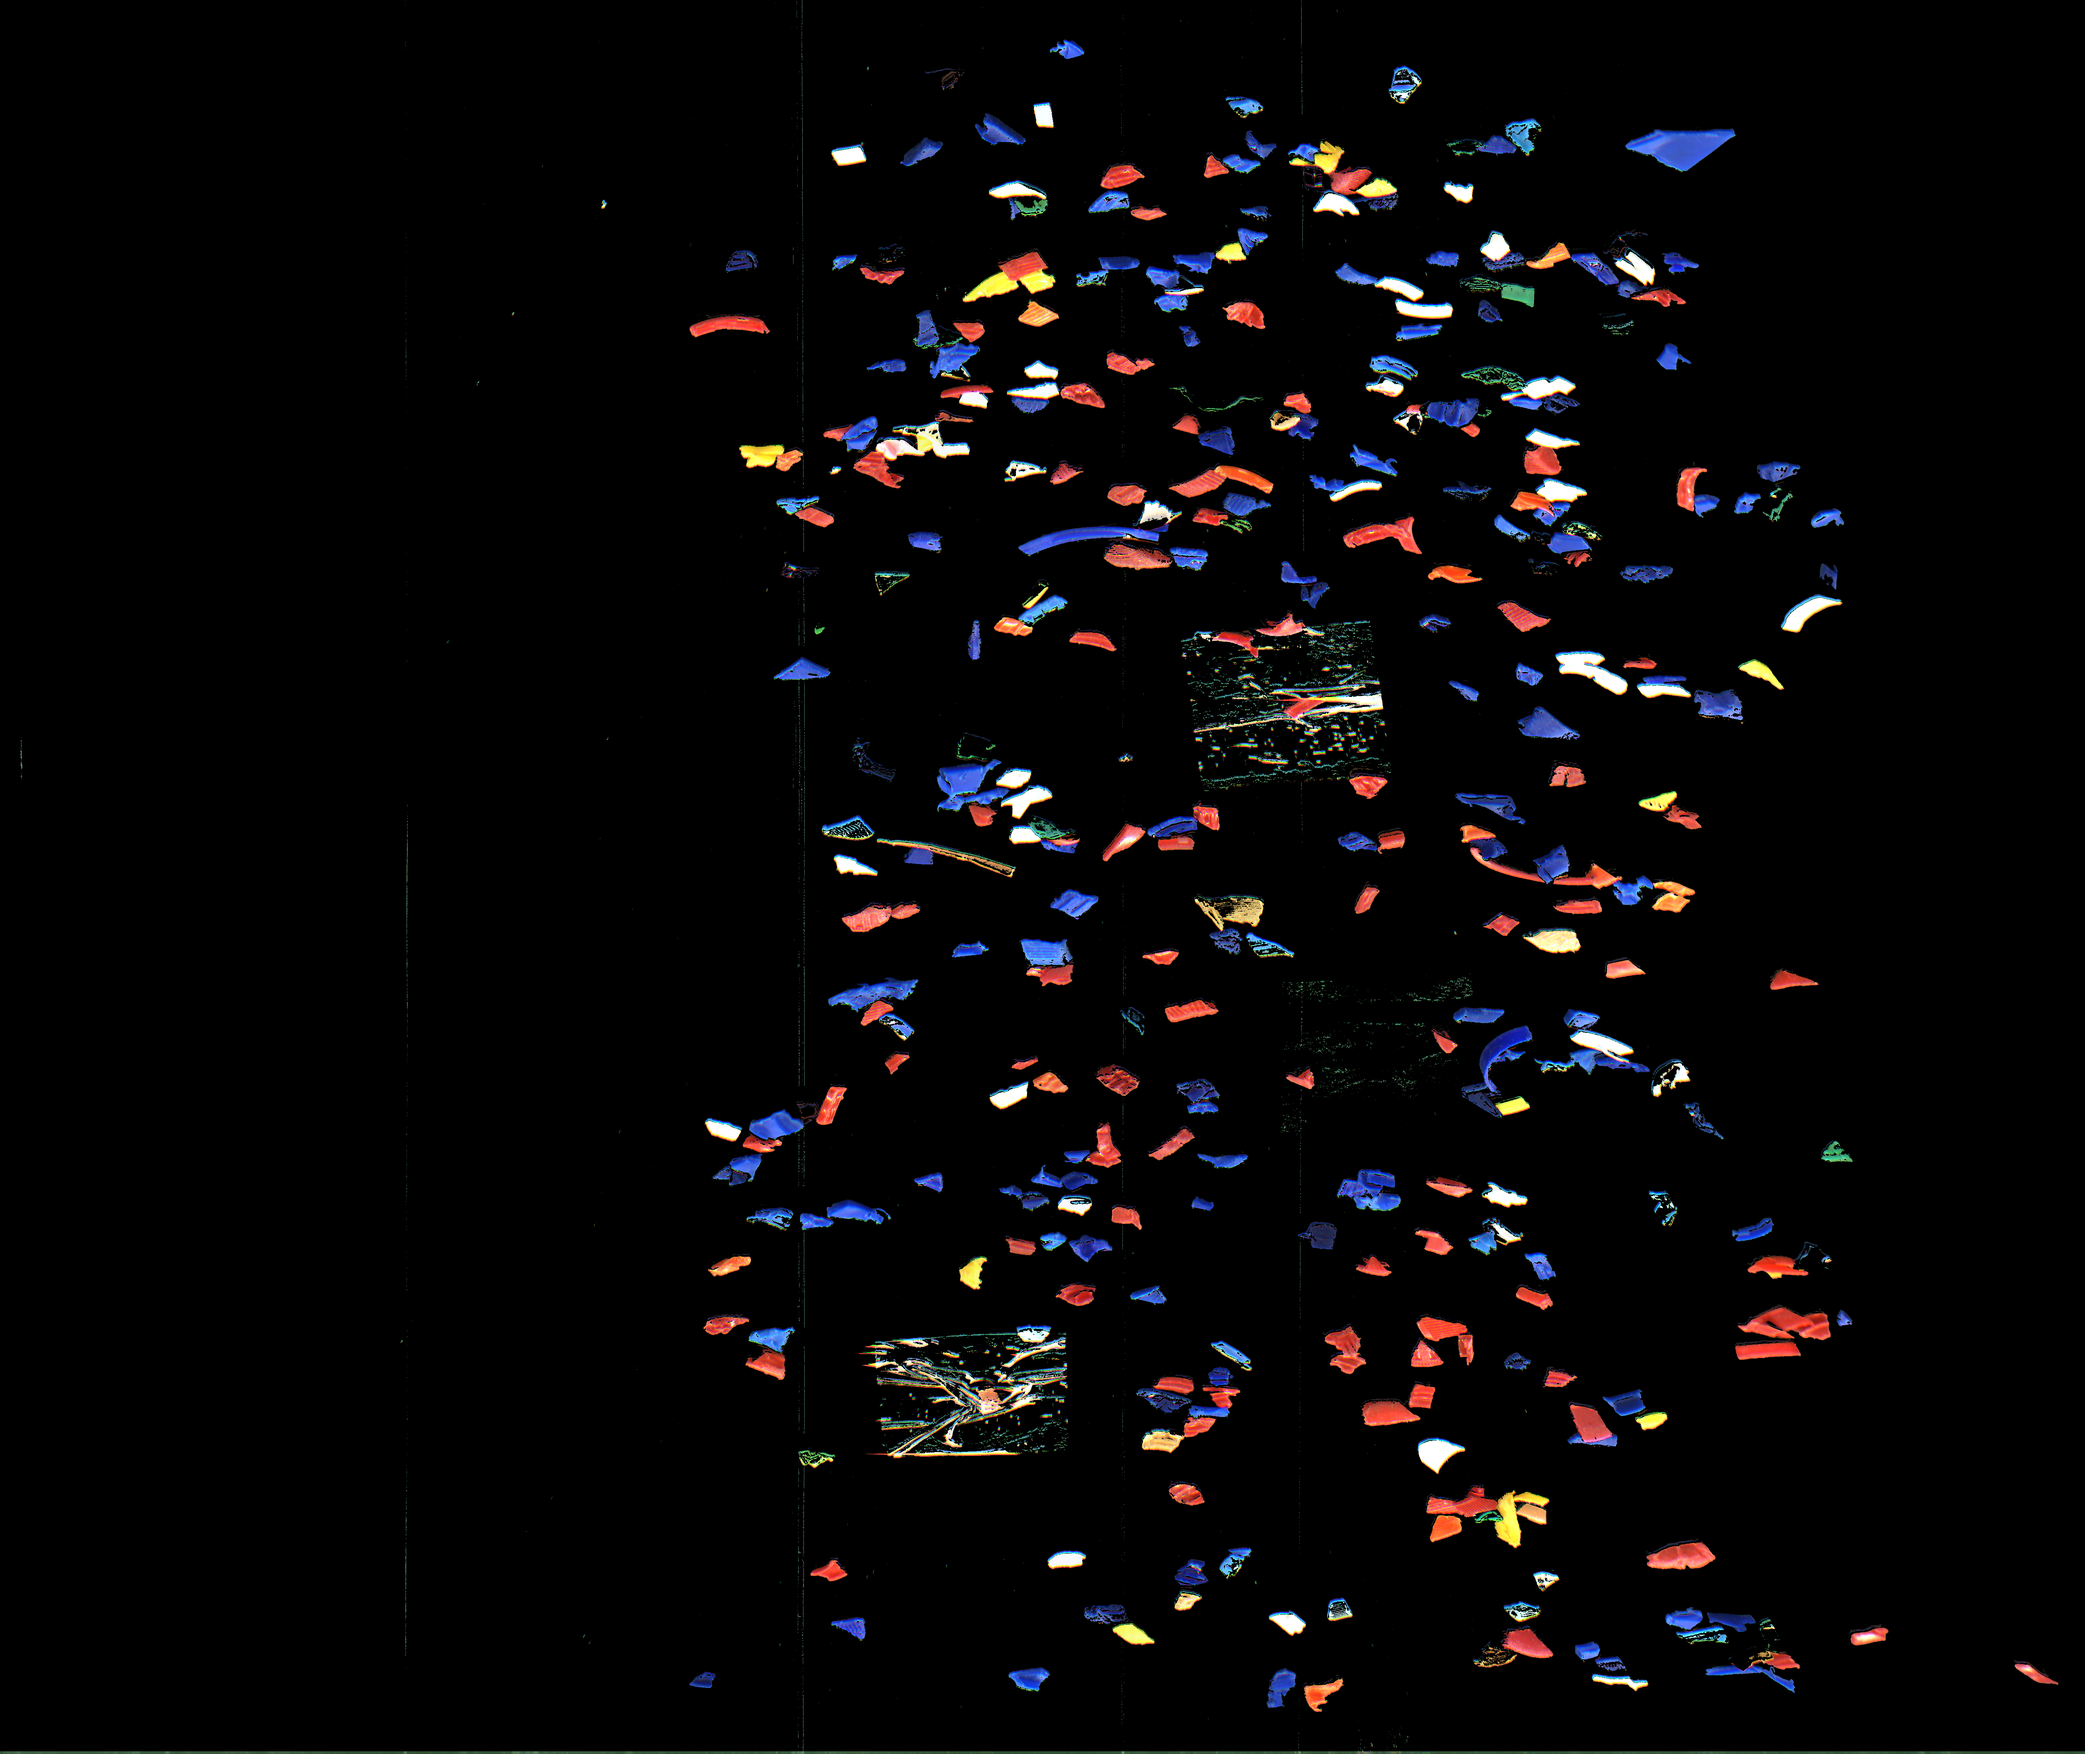
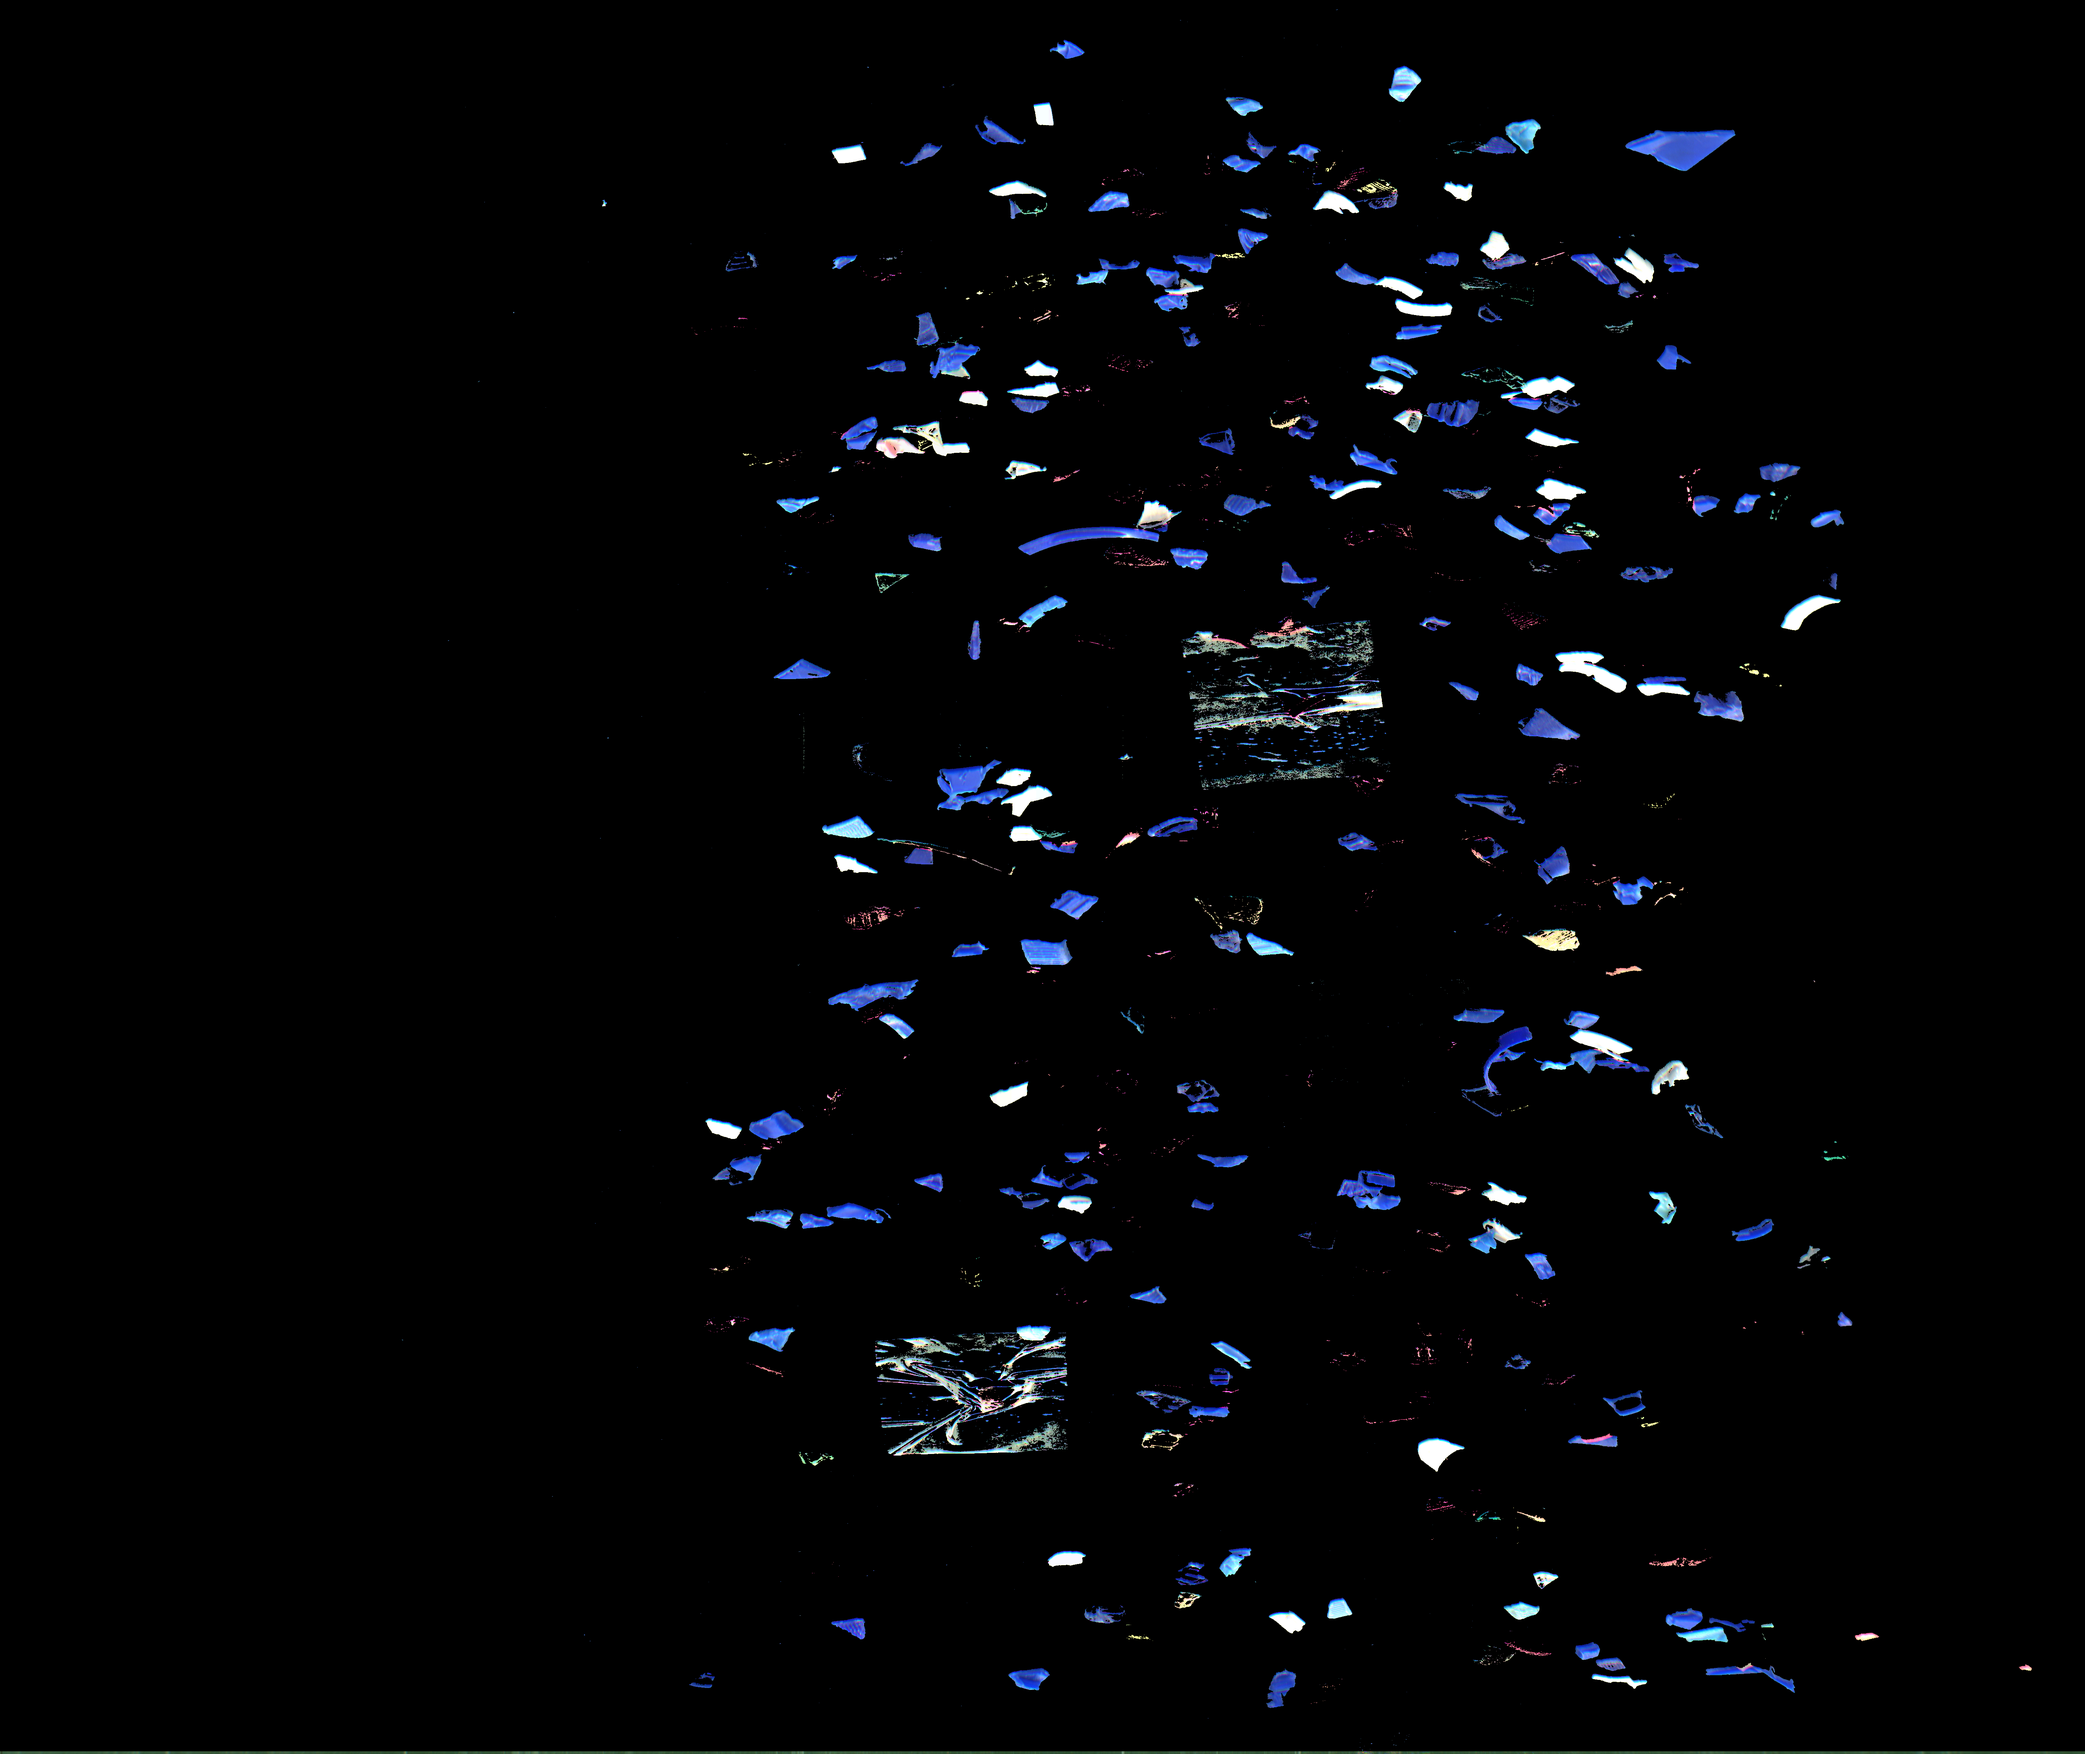
version_09

diff --git a/PictureBackgroundSegmentation/make_mask.cpp b/PictureBackgroundSegmentation/make_mask.cpp
@@ -12,31 +12,32 @@ Mat background_segmentation_by_knn(Mat img, vector<vector<int>> init_pixels, int
     }
     
     vector<thread> threads(num_threads);
-    vector<vector<float>> distances_t(num_threads);
-    for (int i = 0; i < num_threads; i++) {
-        distances_t[i] = vector<float>(init_pixels.size());
-    }
-
-    auto thread_func = [init_pixels, k, num_threads](Mat im, int thread_id, vector<float> distances) {
+    
+    auto thread_func = [init_pixels, k, num_threads](Mat im, int thread_id) {
         int i = im.rows / num_threads * thread_id;
         int i_fin = im.rows / num_threads * (thread_id + 1);
+        int ip_sz = init_pixels.size();
+        int* std_distances = new int[ip_sz];
+        int* std_distances_archive = new int[ip_sz];
+        bool* cbd = new bool[255 * 255 * 3];
         for (; i < i_fin; i++) {
             for (int j = 0; j < im.cols; j++) {
                 Vec3b now_color = im.at<Vec3b>(i, j);
-                for (int d = 0; d < init_pixels.size(); d++) {
-                    int distance;
-                    distance =
+                for (int d = 0; d < ip_sz; d++) {
+                    int distance =
                         ((now_color[0] - init_pixels[d][3]) * (now_color[0] - init_pixels[d][3])) +
                         ((now_color[1] - init_pixels[d][4]) * (now_color[1] - init_pixels[d][4])) +
                         ((now_color[2] - init_pixels[d][5]) * (now_color[2] - init_pixels[d][5]));
-                    distances[d] = distance + 0.1 * init_pixels[d][2];
+                    std_distances[d] = distance;
+                    cbd[distance] = init_pixels[d][2];
                 }
-                partial_sort(distances.begin(), distances.begin() + k, distances.end());
-                int m[2] = { 0, 0 };
+                
+                partial_sort(std_distances, std_distances + k, std_distances + ip_sz);
+                unsigned char m[2] = { 0, 0 };
                 for (int c = 0; c < k; c++) {
-                    m[int(distances[c] * 10 - int(distances[c]) * 10)] += 1;
+                    m[cbd[std_distances[c]]] += 1;
                 }
-                distances = vector<float>(init_pixels.size());
+                std_distances = std_distances_archive;
                 if (m[0] > m[1]) {
                     im.at<Vec3b>(i, j) = Vec3b(0, 0, 0);
                 }
@@ -47,7 +48,7 @@ Mat background_segmentation_by_knn(Mat img, vector<vector<int>> init_pixels, int
         }
         };
     for (int thread_id = 0; thread_id < num_threads; thread_id++) {
-        threads[thread_id] = thread(thread_func, im, thread_id, distances_t[thread_id]);
+        threads[thread_id] = thread(thread_func, im, thread_id);
     }
 
     for (int thread_id = 0; thread_id < num_threads; thread_id++) {

diff --git a/PictureBackgroundSegmentation/PictureBackgroundSegmentation.cpp b/PictureBackgroundSegmentation/PictureBackgroundSegmentation.cpp
@@ -52,13 +52,13 @@ void InitPixel(int action, int x, int y, int flags, void* userdata)
 int main(int argc, char** args)
 {
     //setlocale(LC_ALL, "Russian");
-    image = imread(args[1]);
-    ////save_init_pixels(image);
-    Mat image_mask = masking_image(image, 5);
-    //testing();
-    Mat comp = compare_mask_and_orig(image, image_mask);
-    namedWindow("out", WINDOW_NORMAL);
-    imwrite("comp.png", comp);
+    //image = imread(args[1]);
+    //////save_init_pixels(image);
+    //Mat image_mask = masking_image(image, 5);
+    testing();
+    //Mat comp = compare_mask_and_orig(image, image_mask);
+    //namedWindow("out", WINDOW_NORMAL);
+    //imshow("out", comp);
     waitKey(0);
     return 0;
 }
@@ -91,10 +91,10 @@ Mat compare_mask_and_orig(Mat im, Mat mask) {
 }
 
 Mat masking_image(Mat img, int k) {
-    //vector<vector<int>> init_pixels = get_init_pixels_from_file();
-    //init_pixels = sort_init_pixels(init_pixels, k);
-    save_init_pixels(img);
-    vector<vector<int>> init_pixels = init_pixels_global;
+    vector<vector<int>> init_pixels = get_init_pixels_from_file();
+    init_pixels = sort_init_pixels(init_pixels, k);
+    /*save_init_pixels(img);
+    vector<vector<int>> init_pixels = init_pixels_global;*/
     int num_threads = 12;
     //vector<vector<int>> empty_vec = {};
     clock_t start = clock();
@@ -122,7 +122,7 @@ void testing() {
         while (j < 5) {
             res = masking_image(image, k);
             file_name = to_string(k) + "_" + to_string(j + 1) + ".png";
-            imwrite("version_avx_test//" + file_name, res);
+            imwrite("test//" + file_name, res);
             j += 1;
         }
         i += 1;
